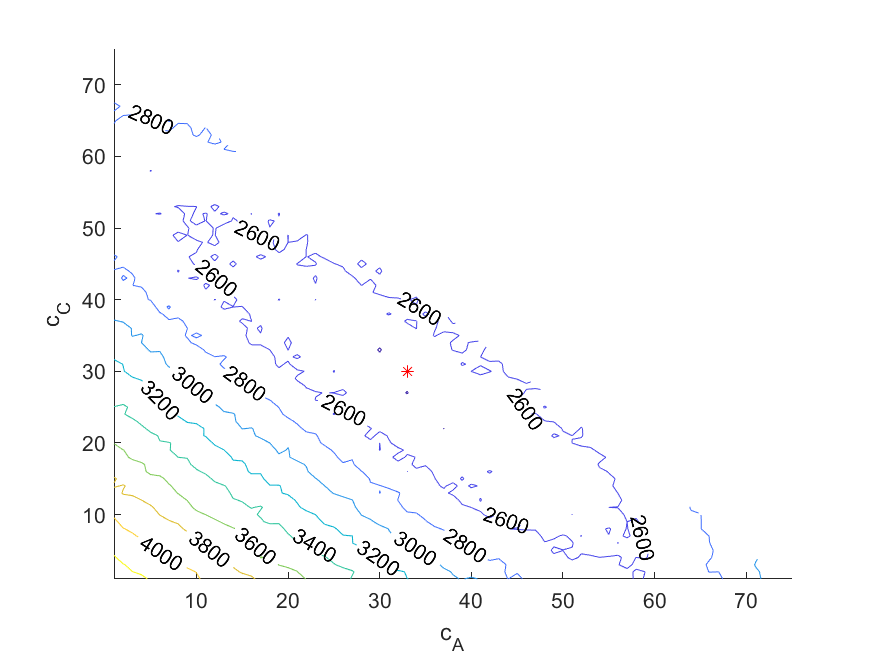
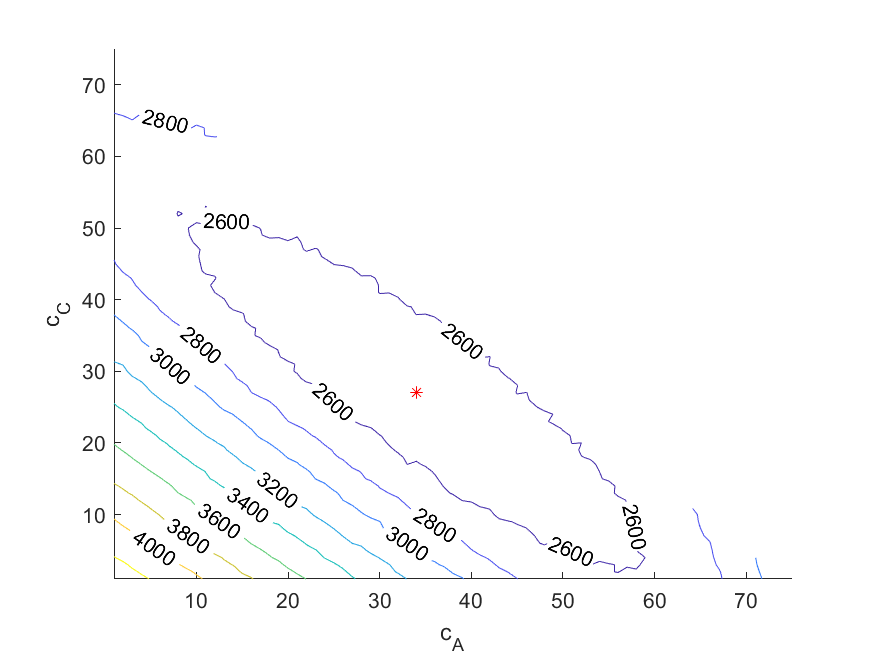
Monday with mean Opt

diff --git a/Project 2/Sensitivity_1.m b/Project 2/Sensitivity_1.m
@@ -19,95 +19,29 @@ s2_3 = log(2);
 for i = 1:size(Cap,2)
     [Rejected, Reallocated, bedocc, no_patients] = BedUtil([Cap(i,1), Cap(i,2), Cap(i,3)],...
     [mu1,mu2,mu3],[s2_1, s2_2, s2_3]);
-
+    
+    figure()
+    subplot(1,2,1)
+        plot(1:366, Rejected(1,1:end), 1:366, Reallocated(1:end), 1:366, Rejected(3,1:end))
+        title("Rejections and reallocations");
+        xlabel('days')
+        legend("A","B","C")
+    subplot(1,2,2)    
+        plot(1:366,bedocc(1,1:end),1:366,bedocc(2,1:end),1:366,bedocc(3,1:end))
+        legend("A","B","C")
+        xlabel('days')
+        title("Beds occupied in each ward");
+    sgtitle("Total capacity: " + sum(Cap(i,:)));
+    
+    disp("Capacity: " + sum(Cap(i,:)))
     disp(no_patients)
     disp([sum(Rejected(1,:)) sum(Reallocated), sum(Rejected(3,:))])
-
+    disp([sum(Rejected(1,:))/no_patients(1) sum(Reallocated)/no_patients(2), sum(Rejected(3,:))/no_patients(3)])
+    disp('Mean fraction of beds occupied in each ward');
+    disp([mean(bedocc(1,:)/Cap(i,1)), mean(bedocc(2,:)/Cap(i,2)), mean(bedocc(3,:)/Cap(i,3)) ])
+    
     mnA = sum(Rejected(1,:))/no_patients(1)
     mnB = sum(Reallocated(1,:))/no_patients(2)
     mnC = sum(Rejected(3,:))/no_patients(3)
 
 end
-    
-
-
-%% Simulation
-
-% Primary performance measure:
-% Probability that all beds are occupied on arrival for each of the three
-% patient types as well as the mean number of patients, that are relocated
-% due to shortage of beds.
-% Also estimate the mean fraction of beds that are utilized in each ward.
-
-
-
-%% Determining fractions
-% Estimate the probability that all beds are occupied on arrival for each
-% of the three patient types as well as the mean number of patients that
-% are relocated due to shortage of beds. Estimate the latter for each
-% individual patient type and as a sum over all types. Furthermore,
-% estimate the mean fraction of beds that are utilized (occupied) in each
-% ward.
-
-disp(no_patients)
-disp([sum(Rejected(1,:)) sum(Reallocated), sum(Rejected(3,:))])
-
-mnA = sum(Rejected(1,:))/no_patients(1)
-mnB = sum(Reallocated(1,:))/no_patients(2)
-mnC = sum(Rejected(3,:))/no_patients(3)
-
-
-%%
-% for i =1:366
-% 
-% plot(1:i,bedocc(1,1:i),1:i,bedocc(2,1:i))
-% legend("A","B","C")
-% %pause(0.25)
-% end
-figure();
-plot(1:366,bedocc(1,1:end),1:366,bedocc(2,1:end),1:366,bedocc(3,1:end))
-legend("A","B","C")
-xlabel('days')
-title('Beds occupied in each ward')
-
-% Mean fraction of beds occupied in each ward
-figure();
-plot(1:366,bedocc(1,1:end)/Cap_A,1:366,bedocc(2,1:end)/Cap_B,1:366,bedocc(3,1:end)/Cap_C)
-legend("A","B","C")
-xlabel('days')
-title('Fraction of beds occupied in each ward')
-
-%[bedocc(1,:)/Cap_A, bedocc(2,:)/Cap_B, bedocc(3,:)/Cap_C];
-disp('Mean fraction of beds occupied in each ward')
-disp([mean(bedocc(1,:)/Cap_A), mean(bedocc(2,:)/Cap_B), mean(bedocc(3,:)/Cap_C) ])
-
-
-%%
-figure();
-plot(Rejected')
-title("Reject")
-legend("A","B","C")
-
-
-figure()
-plot(1:366, Rejected(1,1:end), 1:366, Reallocated(1:end), 1:366, Rejected(3,1:end))
-title("Rejections and reallocations")
-xlabel('days')
-legend("A","B","C")
-%%
-figure;
-plot(Reallocated')
-%legend("A","B","C")
-title("reloc")
-
-%%
-figure();
-plot(1:366,lambda1(1:366))
-hold on
-plot(1:366,lambda2(1:366))
-yline(lambda3(1),'g')
-title('Arrival rates')
-legend("A","B","C")
-xlabel('days')
-ylabel('Number of patients')
-xlim([0 366]);

diff --git a/Project 2/Bed_Optimization.m b/Project 2/Bed_Optimization.m
@@ -16,21 +16,24 @@ close all
 % x0.y = 25;
 % show(prob)
 % [sol,fval] = solve(prob,x0);
+S = zeros(75,75,10);
 %% Brute force method
 for i = 1:10
 for capA = 1:75
     for capC =1:75
         if capA+capC <=75
-            S(capA,capC)=f(capA,capC);
+            S(capA,capC,i)=f(capA,capC);
         else
-            S(capA,capC) =NaN;
+            S(capA,capC,i) =NaN;
         end
     end
-capA
 end
+i
 end
-S = S./10;
+
 %%
+S_10 = S;
+S = mean(S,3);
 [Cap_A,Cap_C] = find(S==min(S,[],'all'));
 Cap_B=75-Cap_A-Cap_C;
 figure;
@@ -50,25 +53,26 @@ ylabel("c_C")
 saveas(gcf,"opt_contour_map_75beds_lognorm.png")
 hold off
 
+save Optimiziation_75_beds.mat
 function S = f(capA,capC)
 
 % Objective function
 % A
-lambda1 = @(t) (-(1/3650).*t.^2 + (1/10).*t); % arrival rate, ward A
+%lambda1 = @(t) (-(1/3650).*t.^2 + (1/10).*t); % arrival rate, ward A
 mu1 = log(4*sqrt(2));
 s2_1 = log(2); 
 % Length of stay for A is lognormal dist. 
 % Mean and sd of 8 days.
 
 % B
-lambda2 = @(t) ((1/5).*lambda1(t));
+%lambda2 = @(t) ((1/5).*lambda1(t));
 mu2 = log(6*sqrt(2));
 s2_2 = log(2); 
 % Length of stay for B is lognormal dist. 
 % Mean and sd of 12 days.
 
 % C
-lambda3 = @(t) (6);
+%lambda3 = @(t) (6);
 mu3 = log(5*sqrt(2));
 s2_3 = log(2);
 % Length of stay for C is lognormal dist. 
